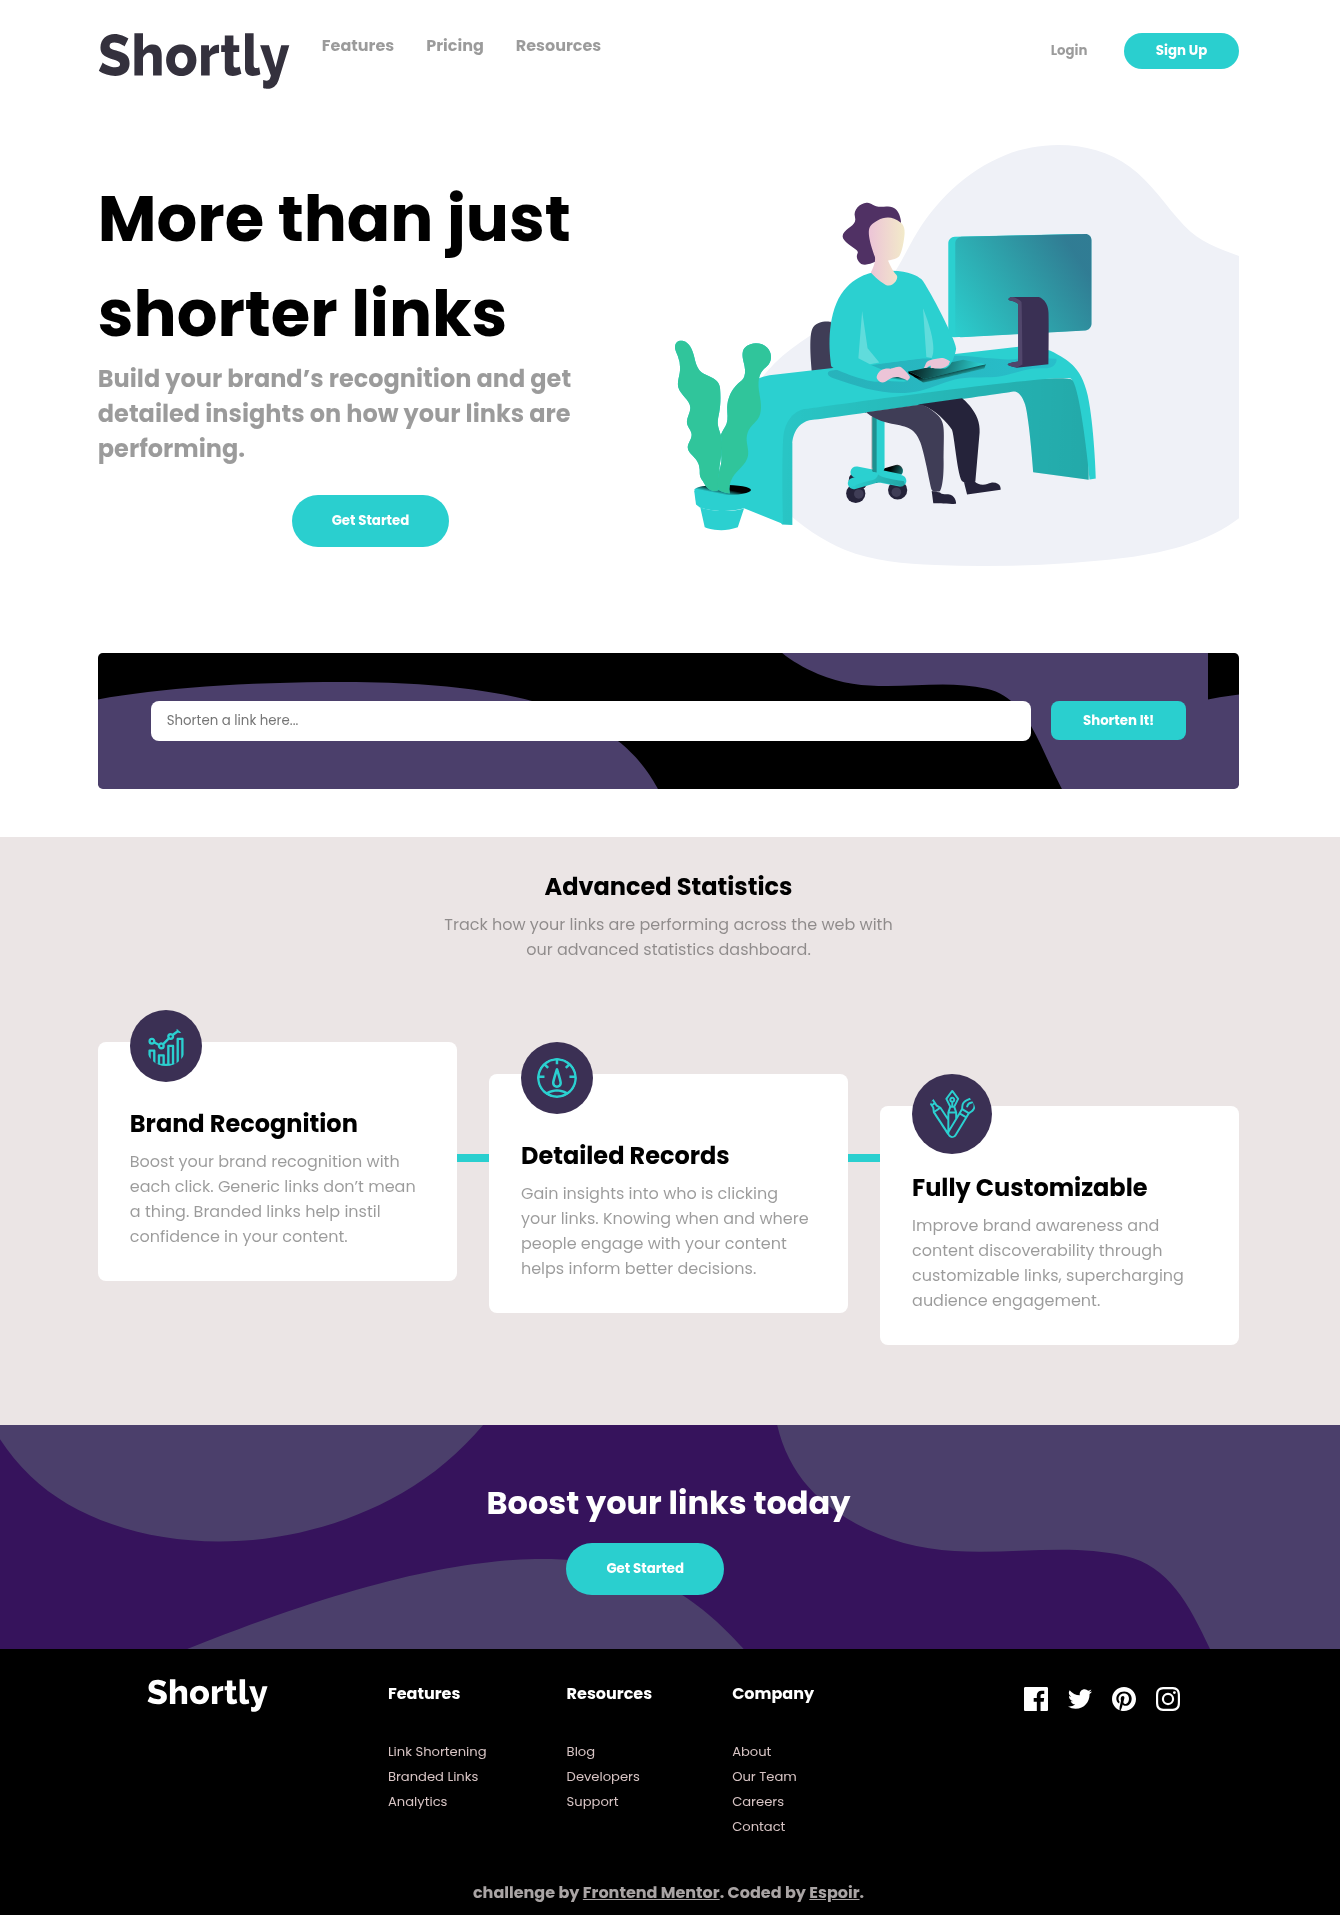
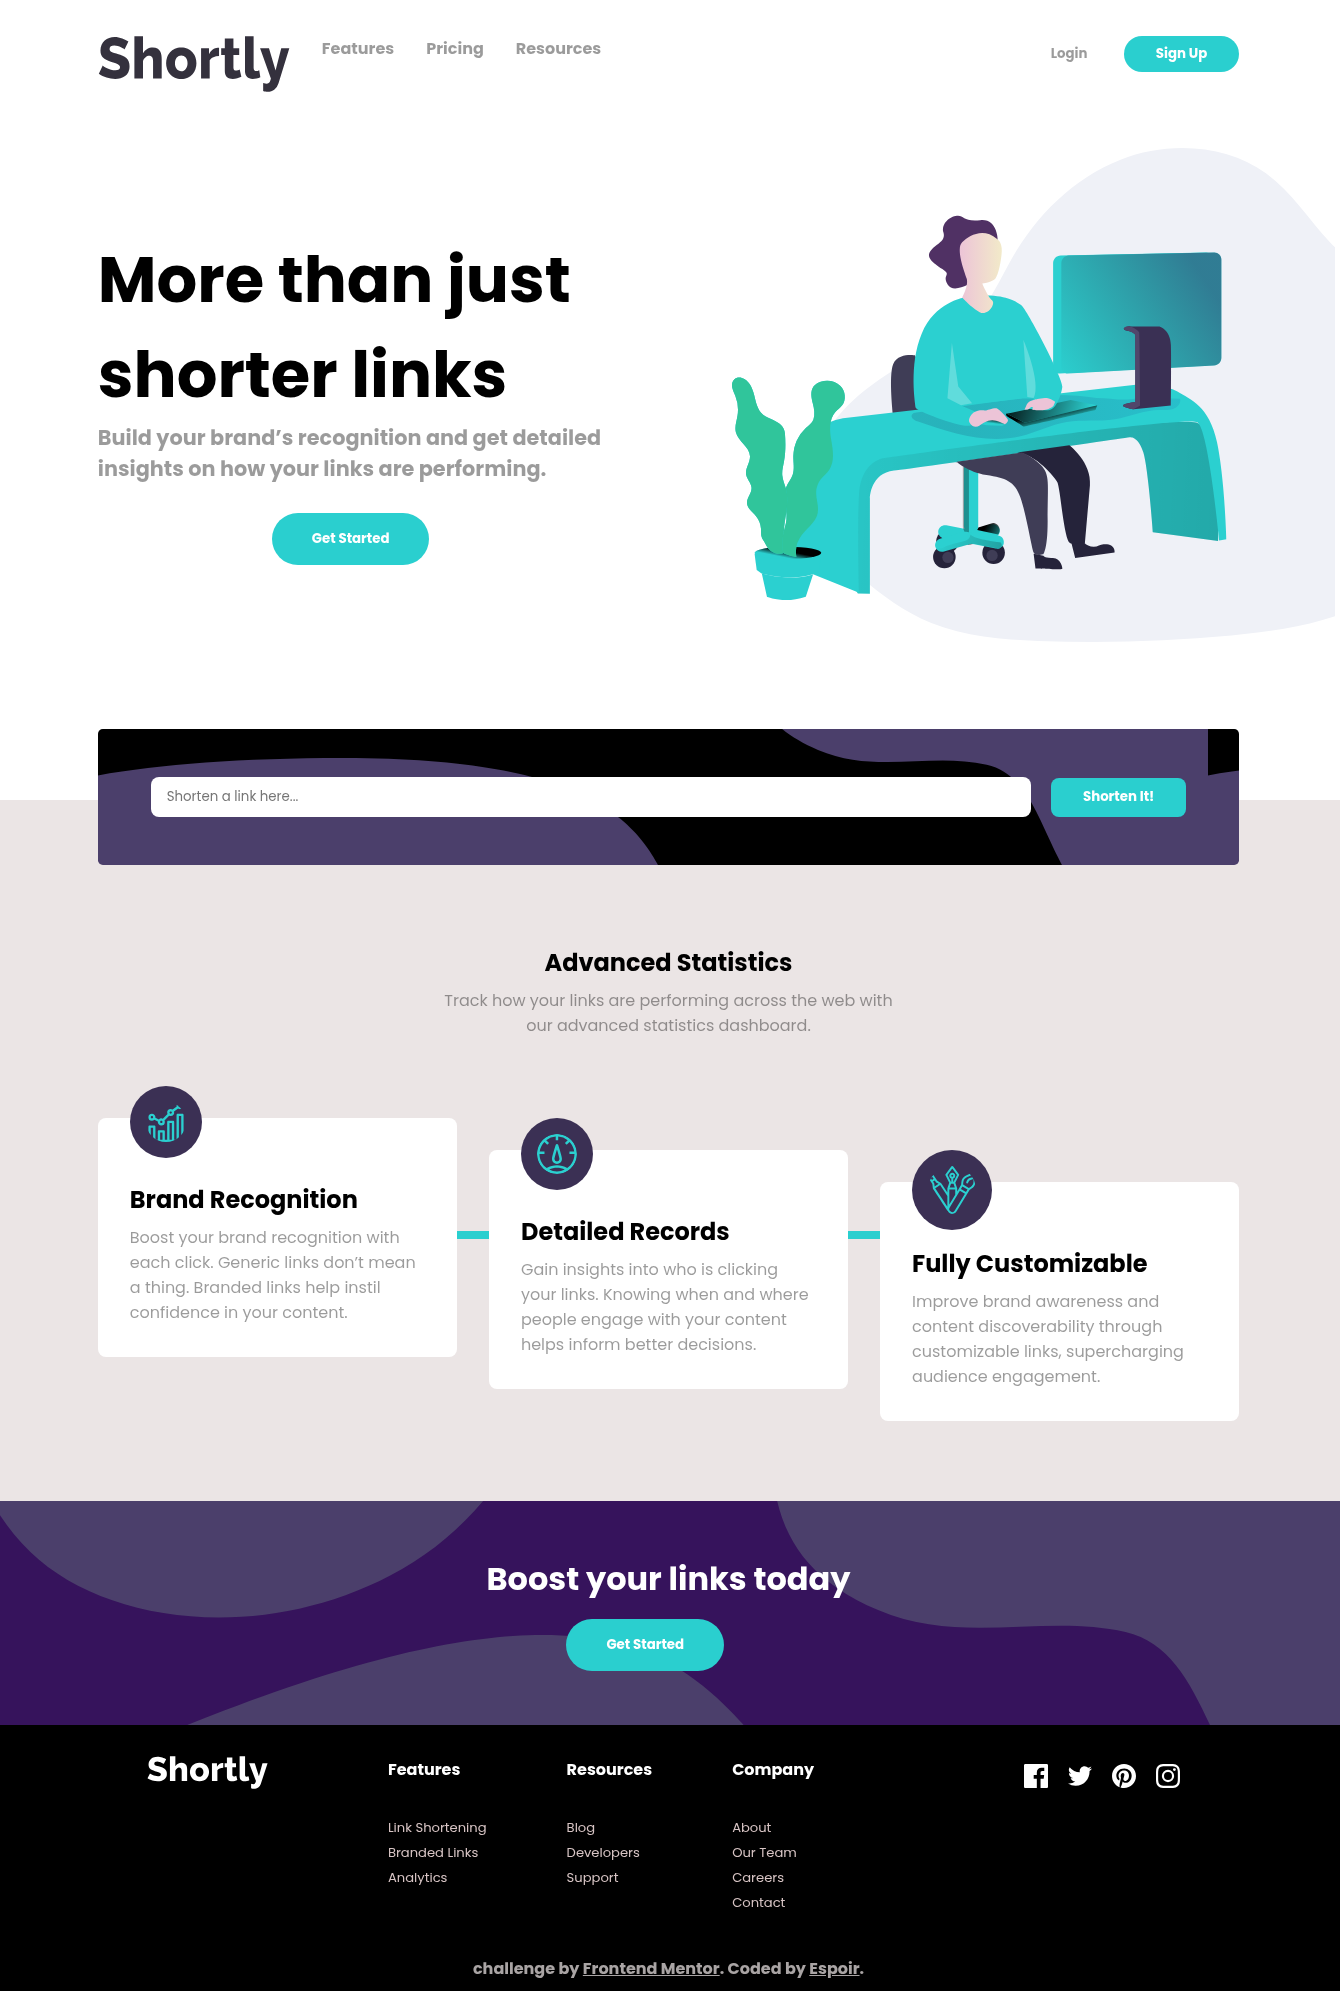
Fixing preview image path

diff --git a/README.md b/README.md
@@ -40,7 +40,7 @@ Users should be able to:
 
 ### Screenshot
 
-![URL shortening API preview](./assets/design/image.jpg)
+![URL shortening API preview](./assets/design/image.png)
 
 ### Links
 
